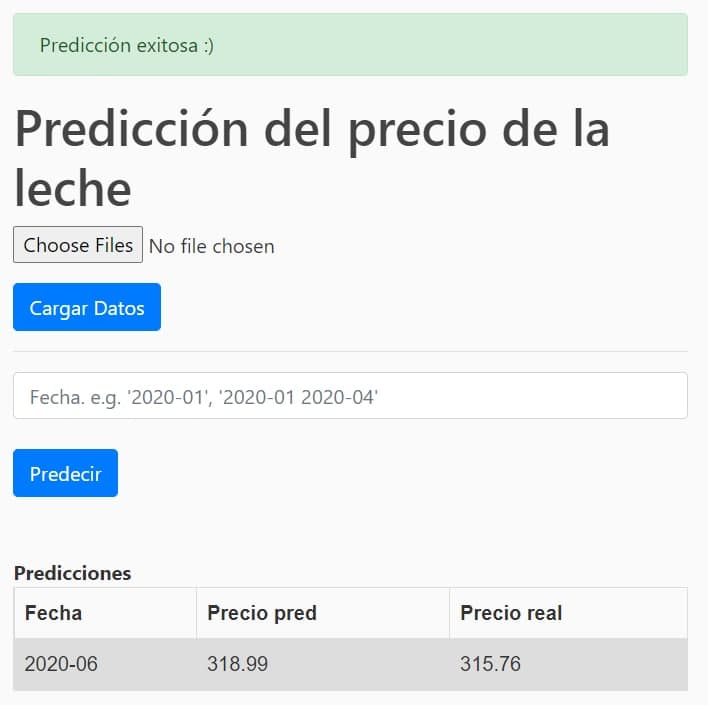
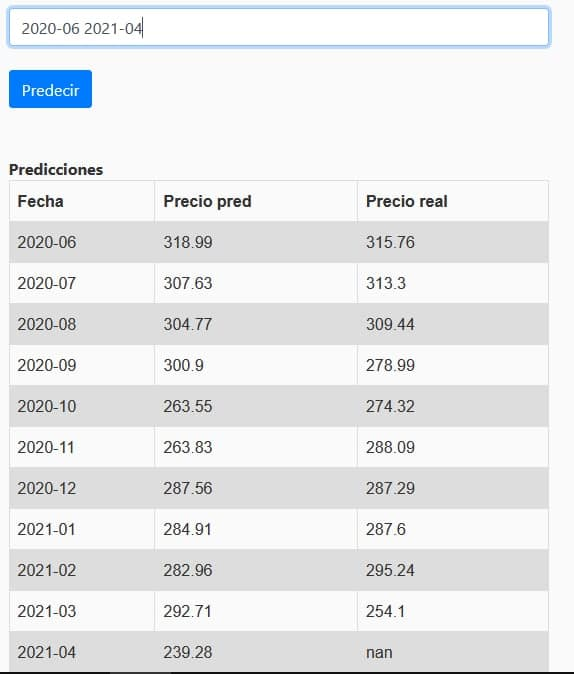
docs: Update readme.

diff --git a/README.md b/README.md
@@ -103,9 +103,9 @@ El contenedor genera una base de datos con los archivos que se entregaron para e
 
 Para poder hacer más predicciones futuras es posible cargar nuevos datos, se espera que estos tengan la misma estructura que los originales de precipitación, banco central y precio. En particular se requiere que tengan todas las columnas necesarias para la predicción y que no contengan Nans.
 
-En la carpeta `/app/data/csv/`, además de los datos originales hay otros 3 archivos con el sufijo `_dummy`, los cuales se pueden utilizar para testear la funcionalidad de carga de datos.
+Se revisa que los archivos tengan el formato correcto y luego se insertan las filas si es que estas no se encuentran en la BBDD. Luego, la app informa qupe columnas fueron insertadas tanto en las features (precipitación + banco central) como targets (precio de la leche).
 
-Esta revisa que los archivos tengan el formato correcto y luego inserta las filas si es que estas no se encuentran en la BBDD. Luego, la app informa qupe columnas fueron insertadas tanto en las features (precipitación + banco central) como targets (precio de la leche).
+En la carpeta `/app/data/csv/`, además de los datos originales hay otros 3 archivos con el sufijo `_dummy`, los cuales se pueden utilizar para testear la funcionalidad de carga de datos, estos datos contienen data para completar hasta el mes 2021-03, por lo que se podrá predecir hasta 2021-04 luego de insertar los datos. La data dentro de los archivos es ficticia (filas repetidas de un mes anterior) así que las predicciones no son confiables pero el punto es probar la funcionalidad.
 
 <p align="center">
     <img src="images/dummy.jpg" width="400"/>
@@ -115,7 +115,7 @@ Esta revisa que los archivos tengan el formato correcto y luego inserta las fila
     <img src="images/insert_data.jpg" width="400"/>
 </p>
 
-Como se ve en el ejemplo, ahora se cuenta con datos para poder predecir el mes `2020-06` que antes no se podía.
+Como se ve en el ejemplo, ahora se cuenta con datos para poder predecir los meses `2020-06` a `2021-04` que antes no se podía. La última predicción muestra `nan` en el precio real ya que es un valor que no existe en la BBDD.
 
 <p align="center">
     <img src="images/pred_new.jpg" width="400"/>
